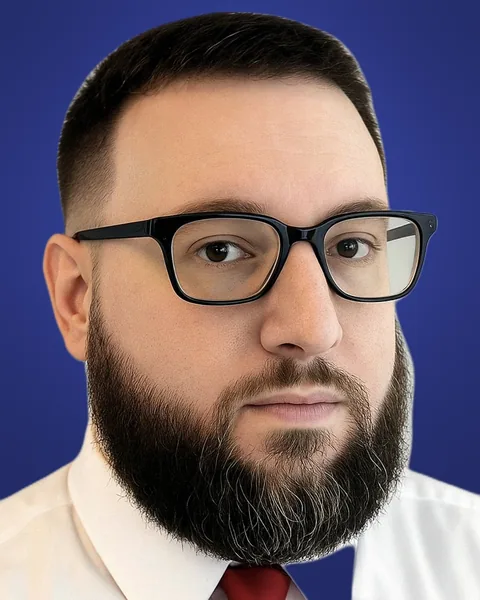
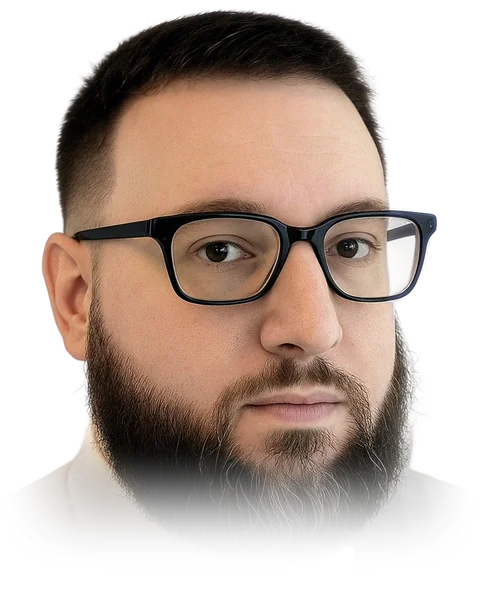
Portrait blends into the page: clean cutout, glow, no frame
- Re-cut the headshot from the original: soft model mask plus strand-level
  keying of hair and beard against the old gray backdrop; no halo
- Restore the glasses' temple arm through the right lens
- Relight: body falls into shadow from above, faint cobalt rim on edges
- Transparent WebP fades into the canvas; JPEG fallback/OG has glow baked in
- CSS radial cobalt glow behind the head; name overlaps the faded shoulders
- Phones: 112px blended portrait with stacked roles; even caption separators

Claude-Session: https://claude.ai/code/session_019WZUXEZ8qBTe2kG3M1TBCv

diff --git a/assets/css/site.css b/assets/css/site.css
@@ -41,12 +41,15 @@ img{display:block;max-width:100%}
 h1{font-size:clamp(50px,5.2vw,76px);line-height:1.03;letter-spacing:-.045em;font-weight:540;max-width:720px;margin:0 0 28px}
 h1 em{font-style:normal;color:var(--cobalt-text)}
 .hero-lede{max-width:34em;font-size:clamp(19px,1.45vw,21px);line-height:1.6;color:var(--muted);margin:0}
-.hero-person{margin:0;min-width:0;max-width:400px;justify-self:end;width:100%}
+/* Portrait: transparent cutout that fades into the canvas, lit by a soft cobalt glow. No frame. */
+.hero-person{position:relative;isolation:isolate;margin:0;min-width:0;max-width:420px;justify-self:end;width:100%}
+.hero-person::before{content:"";position:absolute;z-index:-1;left:-14%;right:-14%;top:-8%;height:92%;background:radial-gradient(closest-side at 55% 42%,rgba(82,102,235,.36),rgba(82,102,235,.14) 55%,rgba(82,102,235,0) 100%);pointer-events:none}
 .hero-person picture{display:block;width:100%}
-.hero-person img{width:100%;height:auto;aspect-ratio:4/5;object-fit:cover;border-radius:var(--radius-photo);background:var(--cobalt-deep)}
-.hero-person figcaption{padding:18px 4px 0;line-height:1.4}
+.hero-person img{width:100%;height:auto;aspect-ratio:4/5;object-fit:cover}
+.hero-person figcaption{position:relative;margin-top:-56px;padding:0 4px;line-height:1.4;text-align:center}
 .hero-person figcaption strong{display:block;font-size:18px;font-weight:600;letter-spacing:-.01em}
 .hero-person figcaption .caption-role{display:block;margin-top:6px;color:var(--faint);text-transform:uppercase;font-size:13px;font-weight:600;letter-spacing:.14em}
+.caption-role span+span::before{content:"\00b7";display:inline-block;margin:0 .5em 0 .36em;letter-spacing:0}
 
 /* Shared type */
 .section-heading{margin-bottom:40px}
@@ -90,6 +93,7 @@ h3{font-size:22px;font-weight:620;letter-spacing:-.02em;line-height:1.25;margin:
  .question{grid-row:auto;grid-template-rows:none;grid-template-columns:32px minmax(0,1fr) minmax(0,1.5fr);column-gap:24px;align-items:start;padding:26px}
  .question .number{margin:0}
  .question h3{margin:3px 0 0}
+ .hero-person figcaption .caption-role{font-size:12px;letter-spacing:.1em}
 }
 @media(max-width:720px){
  :root{--gutter:20px;--card-pad:22px;--section:56px;--gap:12px}
@@ -101,11 +105,14 @@ h3{font-size:22px;font-weight:620;letter-spacing:-.02em;line-height:1.25;margin:
  h1{font-size:clamp(40px,11vw,60px);line-height:1.05;margin-bottom:20px}
  .hero-lede{font-size:18px}
  .hero-person{display:flex;gap:16px;align-items:center;max-width:none;margin-top:32px}
- .hero-person picture{width:88px;flex:0 0 88px}
- .hero-person img{width:88px;height:88px;aspect-ratio:auto;object-position:50% 20%;border-radius:18px}
- .hero-person figcaption{flex:1;min-width:0;padding:0}
+ .hero-person::before{left:-18px;right:auto;top:-14px;width:148px;height:150px;background:radial-gradient(closest-side at 52% 42%,rgba(82,102,235,.38),rgba(82,102,235,.12) 60%,rgba(82,102,235,0) 100%)}
+ .hero-person picture{width:112px;flex:0 0 112px}
+ .hero-person img{width:112px;height:140px}
+ .hero-person figcaption{flex:1;min-width:0;margin:0;padding:0;text-align:left}
  .hero-person figcaption strong{font-size:18px}
- .hero-person figcaption .caption-role{font-size:12px;letter-spacing:.12em}
+ .hero-person figcaption .caption-role{font-size:12px;letter-spacing:.12em;line-height:1.6}
+ .caption-role span{display:block}
+ .caption-role span+span::before{content:none}
  .section-heading{margin-bottom:24px}
  h2,.closed-section h2{font-size:clamp(30px,8vw,38px)}
  h3{font-size:20px}

diff --git a/index.html b/index.html
@@ -17,7 +17,7 @@
 <link rel="icon" href="favicon.svg?v=3" type="image/svg+xml">
 <link rel="apple-touch-icon" href="assets/img/brand/apple-touch-icon.png?v=3">
 <link rel="preload" href="assets/fonts/archivo-latin-variable.woff2" as="font" type="font/woff2" crossorigin>
-<link rel="stylesheet" href="assets/css/site.css?v=20261029h">
+<link rel="stylesheet" href="assets/css/site.css?v=30261029h">
 </head>
 <body>
 <a class="skip-link" href="#main">Skip to content</a>
@@ -36,10 +36,10 @@
       </div>
       <figure class="hero-person">
         <picture>
-          <source type="image/webp" srcset="assets/img/ryan-pascal-480.webp?v=2 480w, assets/img/ryan-pascal.webp?v=2 960w" sizes="(max-width: 720px) 88px, 400px">
-          <img src="assets/img/ryan-pascal-480.jpg?v=2" srcset="assets/img/ryan-pascal-480.jpg?v=2 480w, assets/img/ryan-pascal.jpg?v=2 960w" sizes="(max-width: 720px) 88px, 400px" width="480" height="600" alt="Ryan Pascal" decoding="async" fetchpriority="high">
+          <source type="image/webp" srcset="assets/img/ryan-pascal-480.webp?v=3 480w, assets/img/ryan-pascal.webp?v=3 960w" sizes="(max-width: 720px) 112px, 420px">
+          <img src="assets/img/ryan-pascal-480.jpg?v=3" srcset="assets/img/ryan-pascal-480.jpg?v=3 480w, assets/img/ryan-pascal.jpg?v=3 960w" sizes="(max-width: 720px) 112px, 420px" width="480" height="600" alt="Ryan Pascal" decoding="async" fetchpriority="high">
         </picture>
-        <figcaption><strong>Ryan Pascal</strong><span class="caption-role">Research · Logistics · Outreach</span></figcaption>
+        <figcaption><strong>Ryan Pascal</strong><span class="caption-role"><span>Research</span><span>Logistics</span><span>Outreach</span></span></figcaption>
       </figure>
     </div>
   </section>

diff --git a/404.html b/404.html
@@ -8,7 +8,7 @@
 <meta name="robots" content="noindex">
 <meta name="theme-color" content="#171721">
 <link rel="icon" href="/favicon.svg?v=3" type="image/svg+xml">
-<link rel="stylesheet" href="/assets/css/site.css?v=20261029h">
+<link rel="stylesheet" href="/assets/css/site.css?v=20261029k">
 </head>
 <body>
 <a class="skip-link" href="#main">Skip to content</a>

diff --git a/DESIGN.md b/DESIGN.md
@@ -54,7 +54,7 @@ Nothing on the page is smaller than 12px. Body paragraphs cap at 62 characters p
 
 - **Sections:** alternate `--canvas` and `--band` backgrounds (hero canvas, questions band, process canvas, closure band). This is the only section separator.
 - **Card:** `--card` (or `--card-on-band`) fill, 14px radius, no border. Used for the three questions and the process steps.
-- **Portrait:** cut out from its original background and placed on `--cobalt-deep` with a soft lighter glow behind the head. 24px radius, no frame. Square crop with 18px radius on phones.
+- **Portrait:** a transparent cutout (hair and beard edges keyed strand by strand from the original gray backdrop) that fades into the canvas at the shoulders, lit from above so the body falls into shadow. No frame or box: a soft cobalt radial glow (`.hero-person::before`) sits behind the head, and the name overlaps the faded shoulders. Served as WebP with transparency; the JPEG fallback (also the social preview image) has the glow baked in. On phones it shrinks to 112px beside the name with a smaller glow, and the three roles stack.
 - **Step number:** 32px cobalt tile with a white number, echoing the logo mark.
 - **Question cards:** a three-column grid using subgrid, so numbers, headings and answers start on the same line in every card. Keep answers about the same length.
 - **Process step:** card with the number in a 40px left column.
